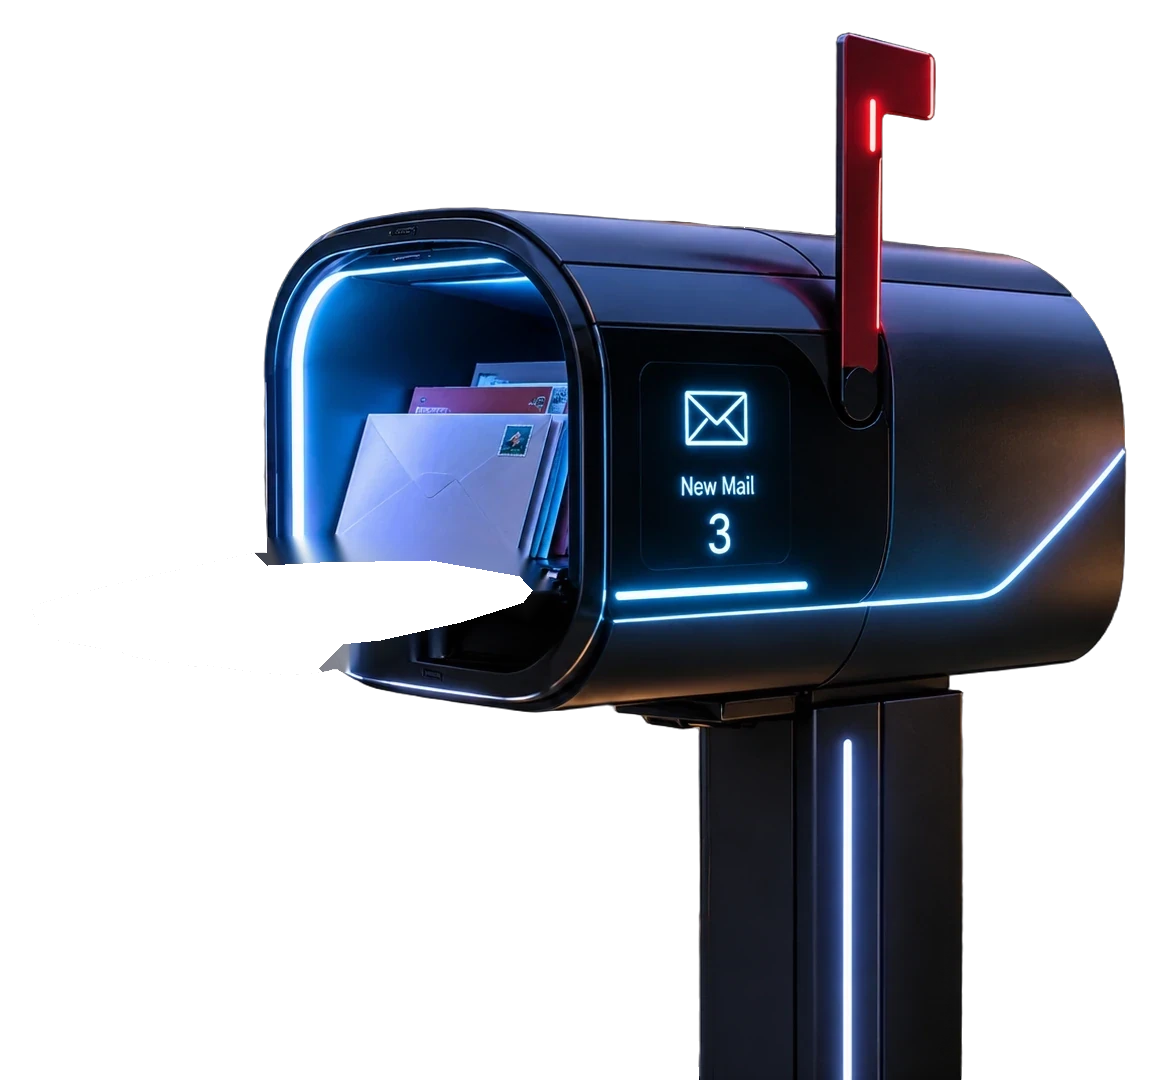
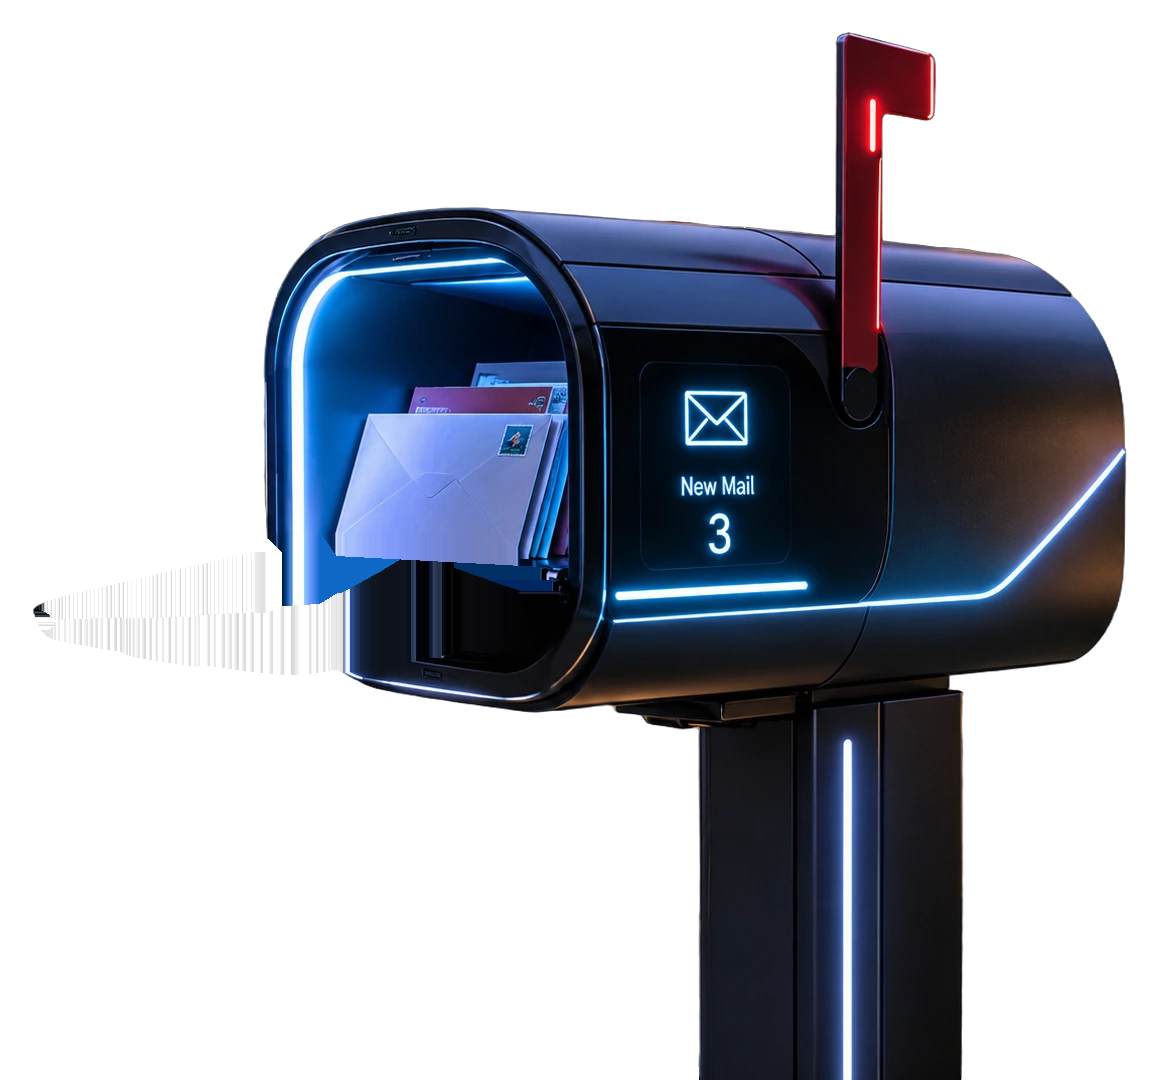
Seat the photographed door over the mouth and blend the post back into the rocks.
The flap now travels a hair past the opening and settles under a feathered rounded seal, and the mailbox photo sits under the terrain again so the post meets the ground the way it did before the door work.

Changed region(s): [[0.0311, 0.4889, 0.497, 0.6417]]

diff --git a/app/globals.css b/app/globals.css
@@ -307,15 +307,14 @@
 }
 
 .mm-post-photo,
-.mm-post-body,
-.mm-post-door {
+.mm-post-body {
   z-index: 1;
   object-fit: contain;
   object-position: center bottom;
 }
 
 .mm-post-photo {
-  z-index: 3;
+  z-index: 1;
   filter: drop-shadow(0 10px 16px rgba(4, 16, 28, 0.35)) drop-shadow(-6px 0 14px rgba(70, 180, 255, 0.16));
 }
 
@@ -474,19 +473,28 @@
   100% { transform: translate3d(22px, 8px, 0) rotate(3deg) scale(0.38); }
 }
 
-/* The photographed flap, cut from the mailbox. Identity matches the original photo. */
+/* The photographed flap, cut from the mailbox. Identity matches the original photo.
+   It hinges on its lower edge and swings up over the mouth. The settled pose is a
+   hair past flush, then the rig clips to the mouth's rounded outline. */
 .mm-door-rig {
   position: absolute;
   inset: 0;
   z-index: 4;
   pointer-events: none;
-  perspective: 520px;
-  perspective-origin: 42% 40%;
+  perspective: 640px;
+  perspective-origin: 40% 38%;
   opacity: 0;
 }
 
 .mm-post-door {
-  transform-origin: 34% 48%;
+  position: absolute;
+  left: 3.02%;
+  top: 50.89%;
+  width: 45.38%;
+  height: 12.82%;
+  object-fit: fill;
+  object-position: center;
+  transform-origin: 78% 6%;
   transform: none;
 }
 
@@ -498,19 +506,68 @@
   animation: mm-door-close 380ms cubic-bezier(0.22, 0.72, 0.18, 1) both;
 }
 
+.mm-postbox.mm-door-shut .mm-door-rig {
+  animation: mm-door-seal 380ms linear both;
+}
+
 .mm-postbox.mm-door-open .mm-post-door {
   animation: mm-door-open 300ms cubic-bezier(0.32, 0.04, 0.2, 1) both;
 }
 
 @keyframes mm-door-close {
-  0% { transform: none; }
-  72% { transform: rotateZ(96deg) rotateX(16deg); }
-  100% { transform: rotateZ(90deg) rotateX(14deg); }
+  0% {
+    left: 3.02%;
+    top: 50.89%;
+    width: 45.38%;
+    height: 12.82%;
+    transform: none;
+  }
+  /* A hair past the mouth, then settle onto it. */
+  68% {
+    left: 12%;
+    top: -3%;
+    width: 84%;
+    height: 84%;
+    transform: none;
+  }
+  100% {
+    left: 14%;
+    top: 0%;
+    width: 80%;
+    height: 80%;
+    transform: none;
+  }
 }
 
 @keyframes mm-door-open {
-  0% { transform: rotateZ(90deg) rotateX(14deg); }
-  100% { transform: none; }
+  0% {
+    left: 14%;
+    top: 0%;
+    width: 80%;
+    height: 80%;
+    transform: none;
+  }
+  100% {
+    left: 3.02%;
+    top: 50.89%;
+    width: 45.38%;
+    height: 12.82%;
+    transform: none;
+  }
+}
+
+@keyframes mm-door-seal {
+  0%, 70% {
+    mask-image: none;
+  }
+  100% {
+    -webkit-mask-image: url("/brand/mailbox/door-seal.png");
+    mask-image: url("/brand/mailbox/door-seal.png");
+    -webkit-mask-size: 100% 100%;
+    mask-size: 100% 100%;
+    -webkit-mask-repeat: no-repeat;
+    mask-repeat: no-repeat;
+  }
 }
 
 @keyframes mm-flight-move {

diff --git a/components/cockpit/sky.tsx b/components/cockpit/sky.tsx
@@ -98,10 +98,10 @@ function Postbox({ scale }: { scale: "home" | "start" | "arrive" }) {
       />
       <span className="mm-door-rig">
         <Image
-          src="/brand/mailbox/mailbox-door.webp"
+          src="/brand/mailbox/mailbox-door-crop.webp"
           alt=""
-          fill
-          sizes={scale === "start" ? "(max-width: 640px) 120px, 210px" : "(max-width: 640px) 148px, 300px"}
+          width={526}
+          height={143}
           className="mm-post-door"
         />
       </span>
